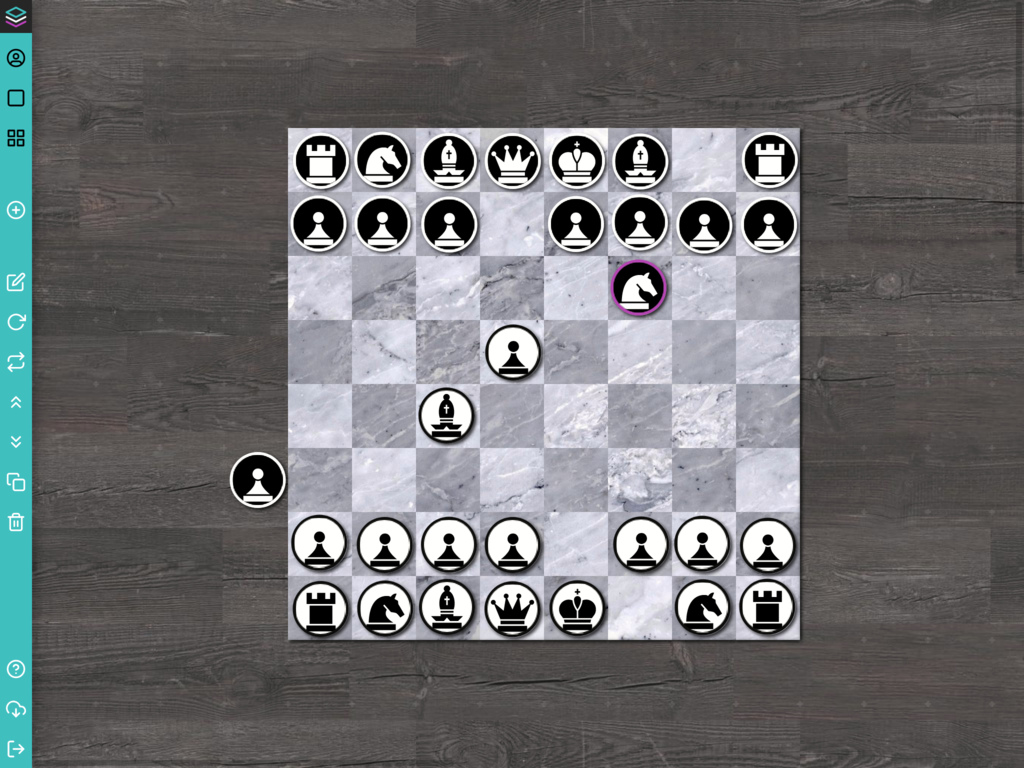
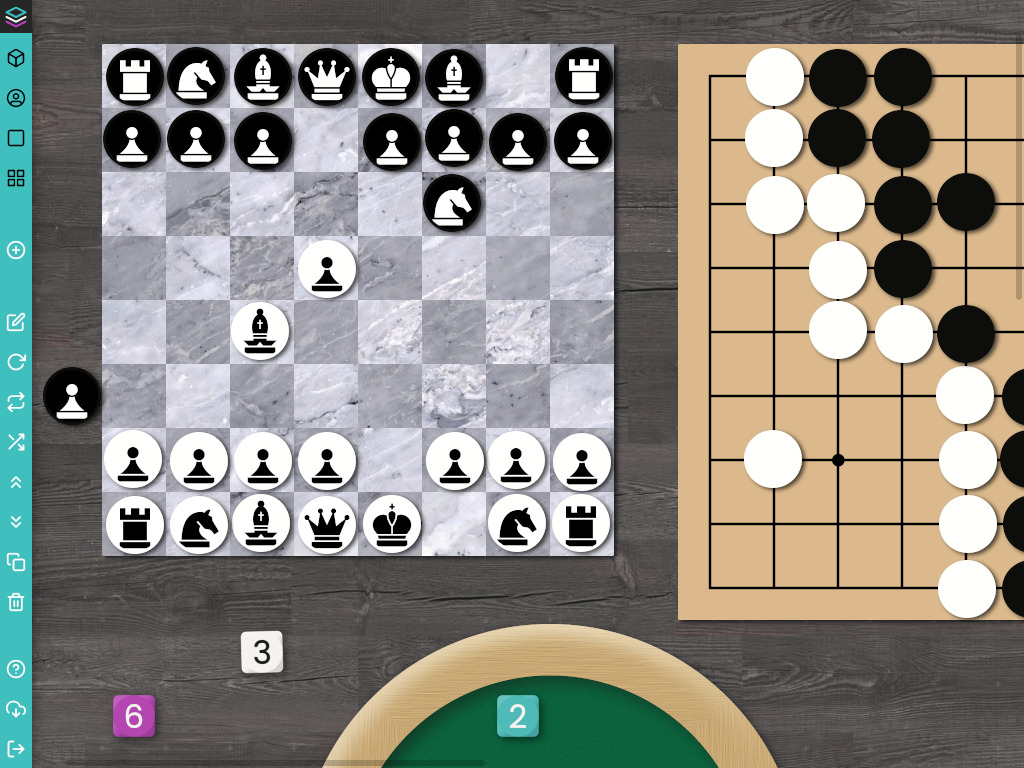
updated docs & screenshots

diff --git a/README.md b/README.md
@@ -12,12 +12,13 @@ Your game. Your data.
 
 ## Key features
 
-* Browser-based virtual gaming desktop.
+* Browser-based 2D virtual desktop for board- and role-playing games.
 * Easy-to-use drag'n'drop interface. Keyboard hotkeys for power-users.
 * Invite friends by sending them a table's unique URL.
-* Tile-/grid-based, with snapping.
+* Tile-/grid-based, with snapping. Classic dungeon tiles and 200+ monster token included.
 * Separate layers for tiles, overlays and tokens.
 * Asset browser for your token/tiles. Individual libraries per game.
+* Sticky notes and dice trays.
 * Templates to setup tables and populate your library from.
 * Transfer individual tables between servers. Or keep an offline backup.
 * Privacy friendly. No user tracking. No 3rd-party scripts. Tables are deleted after some (configurable) time, usually 48h.
@@ -27,11 +28,11 @@ Your game. Your data.
 
 **Note:** This is still an early/development version. A few rather major features are still missing, limiting it's current usefullness:
 
-* No direct asset upload yet. You can't add images/tiles/pieces via the web-UI, only by adding them to table snapshots (zips).
+* While you can upload images/tiles/pieces via the web-UI, editing them is quite limited.
 * No per-table passwords yet. Anyone who knows a table name can join. That is partly by design, but it would be nice to have that option.
-* You can attach (text)labels to tokens, but no fancy state-icons, HP counter etc. - yet.
+* You can attach (text)labels to tokens, but no fancy state-icons, HP counters etc. - yet.
 
-The good news is: You can still use FreeBeeGee today to play! Missing features will arrive sooner or later. See the [roadmap](docs/roadmap.md) for details.
+The good news is: You can still use FreeBeeGee today to play! Missing features will arrive sooner or later. There is a [roadmap](docs/roadmap.md) for details.
 
 ## Screenshots
 

diff --git a/docs/roadmap.md b/docs/roadmap.md
@@ -2,18 +2,6 @@
 
 Here is a list what might happen next. However, priorities can change.
 
-## v0.7 - Uploading Unicorn
-
-* [X] search in library
-* [X] upload custom images for tiles & tokens via web UI
-* [X] add nicer default tiles
-* [ ] pre-release
-  * [X] bugfixing
-  * [ ] review+run unit+integration tests
-  * [ ] update screenshots
-  * [ ] review docs
-  * [ ] bump version/codename & update CHANGELOG
-
 ## v0.8 - Mobile Monkey
 
 * [ ] better tablet / touch support

diff --git a/docs/INSTALL.md b/docs/INSTALL.md
@@ -1,6 +1,6 @@
 # Setup
 
-This guide covers FreeBeeGee v$VERSION$.
+This guide covers the installation of FreeBeeGee.
 
 ## Requirements
 
